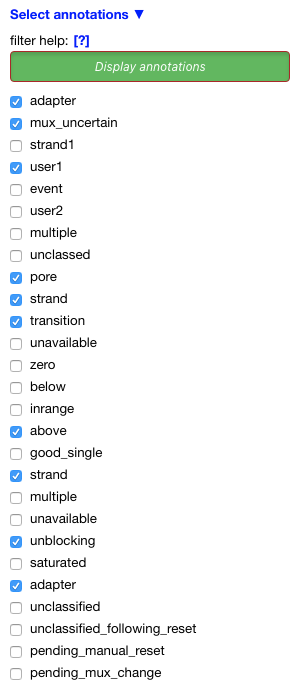
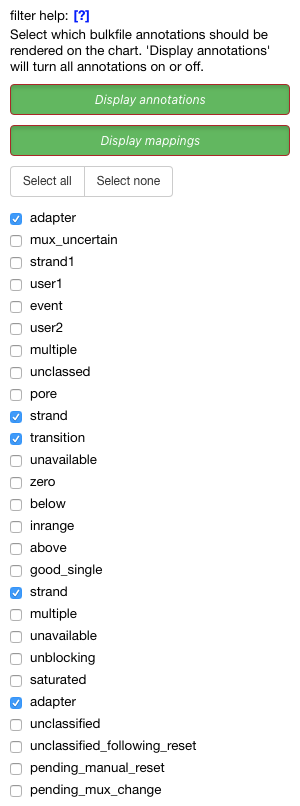
Update quickstart image 05 and associated text

Changed region(s): [[0.03, 0.0, 0.99, 1.0]]

diff --git a/docs/quickstart.rst b/docs/quickstart.rst
@@ -85,12 +85,13 @@ Annotations
 Annotations are added to the plot based on state data and intermediate data from the bulkfile. These represent the label
 computed by MinKNOW at specific time points in the experiment.
 
-Selecting a checkbox will allow that specific label to be rendered on the plot. The 'Display annotations' button will toggle
-all annotations on/off.
+Selecting a checkbox will allow that specific label to be rendered on the plot. The 'Display annotations' or 'Display mappings'
+button will toggle these annotations on/off. The 'Select all' button will turn all annotations on, while the 'Select none' 
+button will de-select all the annotations.
 
 .. figure:: _static/images/quickstart/05_annotations.png
     :class: figure
-    :alt: Screenshot of 'Select annotations' section of sidebar showing a button labeled 'Display annotations' and a list of checkboxes
+    :alt: Screenshot of 'Select annotations' section of sidebar showing buttons labeled 'Display annotations', 'Display mappings', 'Select all', 'Select none' and a list of checkboxes
 
     Screenshot of the annotation selection panel
 
